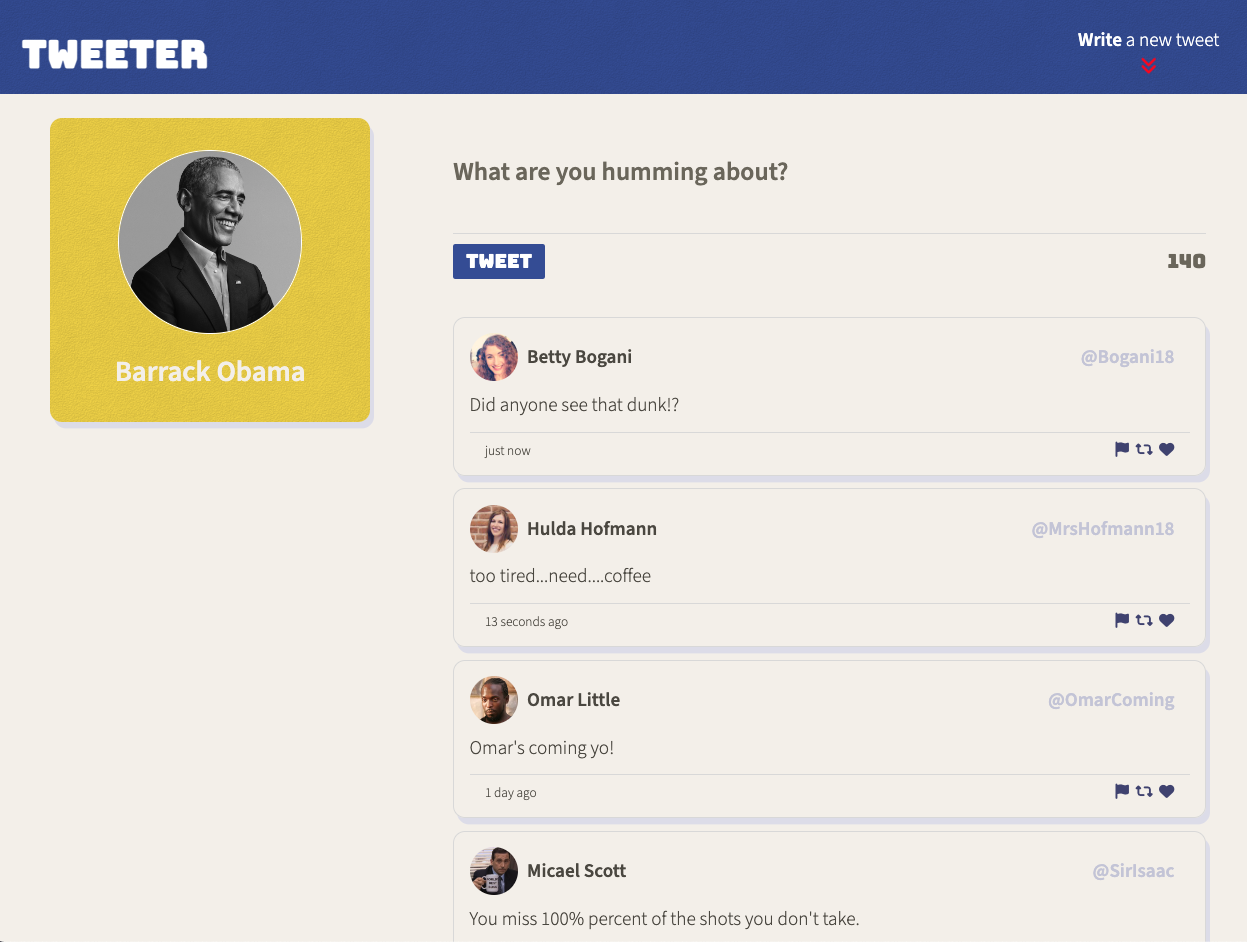
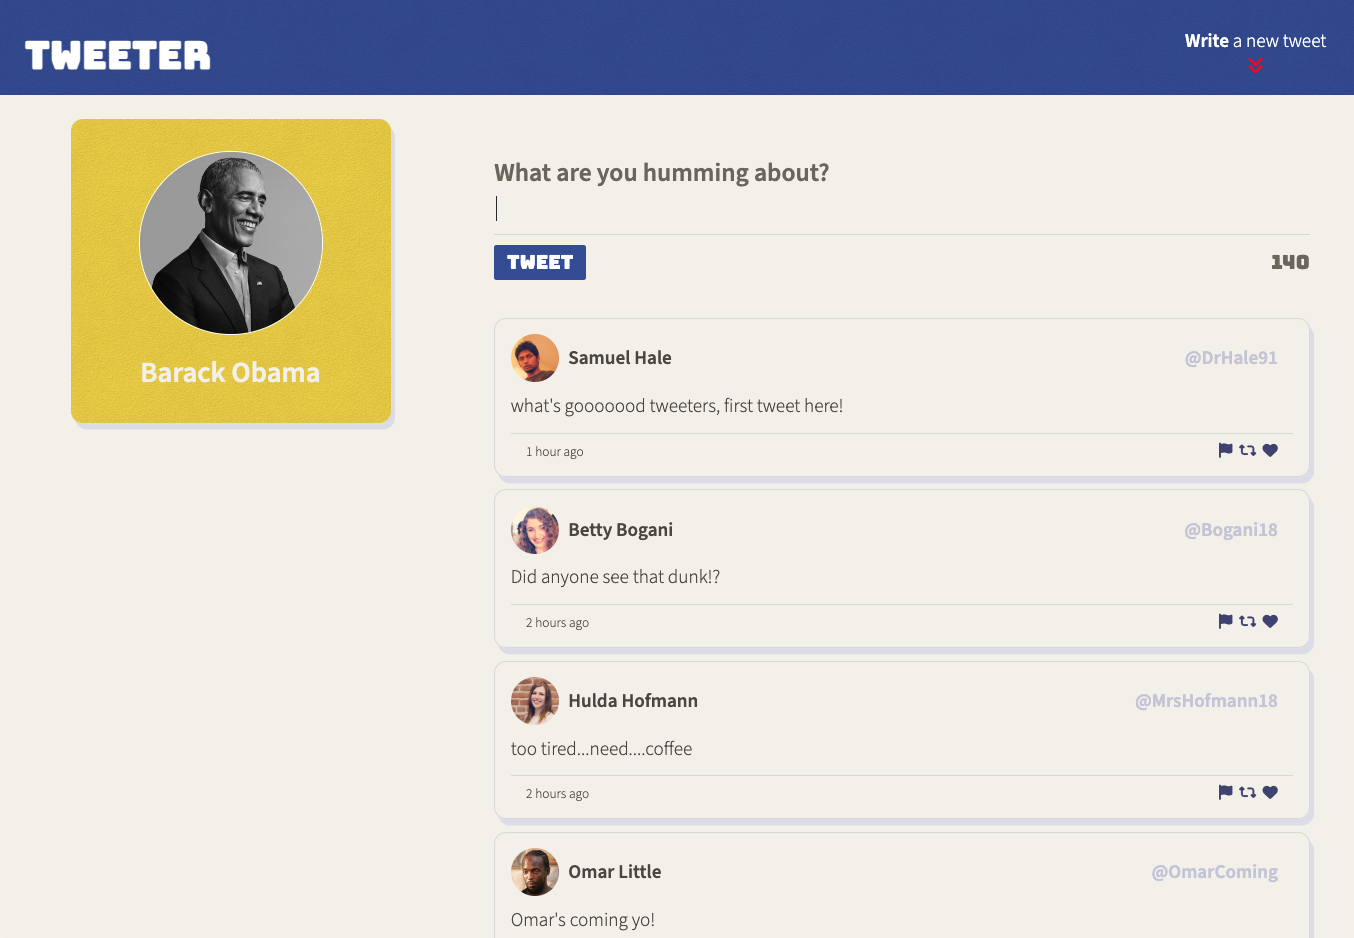
add screenshots and typo correction

diff --git a/public/index.html b/public/index.html
@@ -38,7 +38,7 @@
       </div>
       <br>
       <div>
-          <h2>Barrack Obama</h2>
+          <h2>Barack Obama</h2>
       </div>
     </header>
     <!-- Page-specific (main) content here -->
